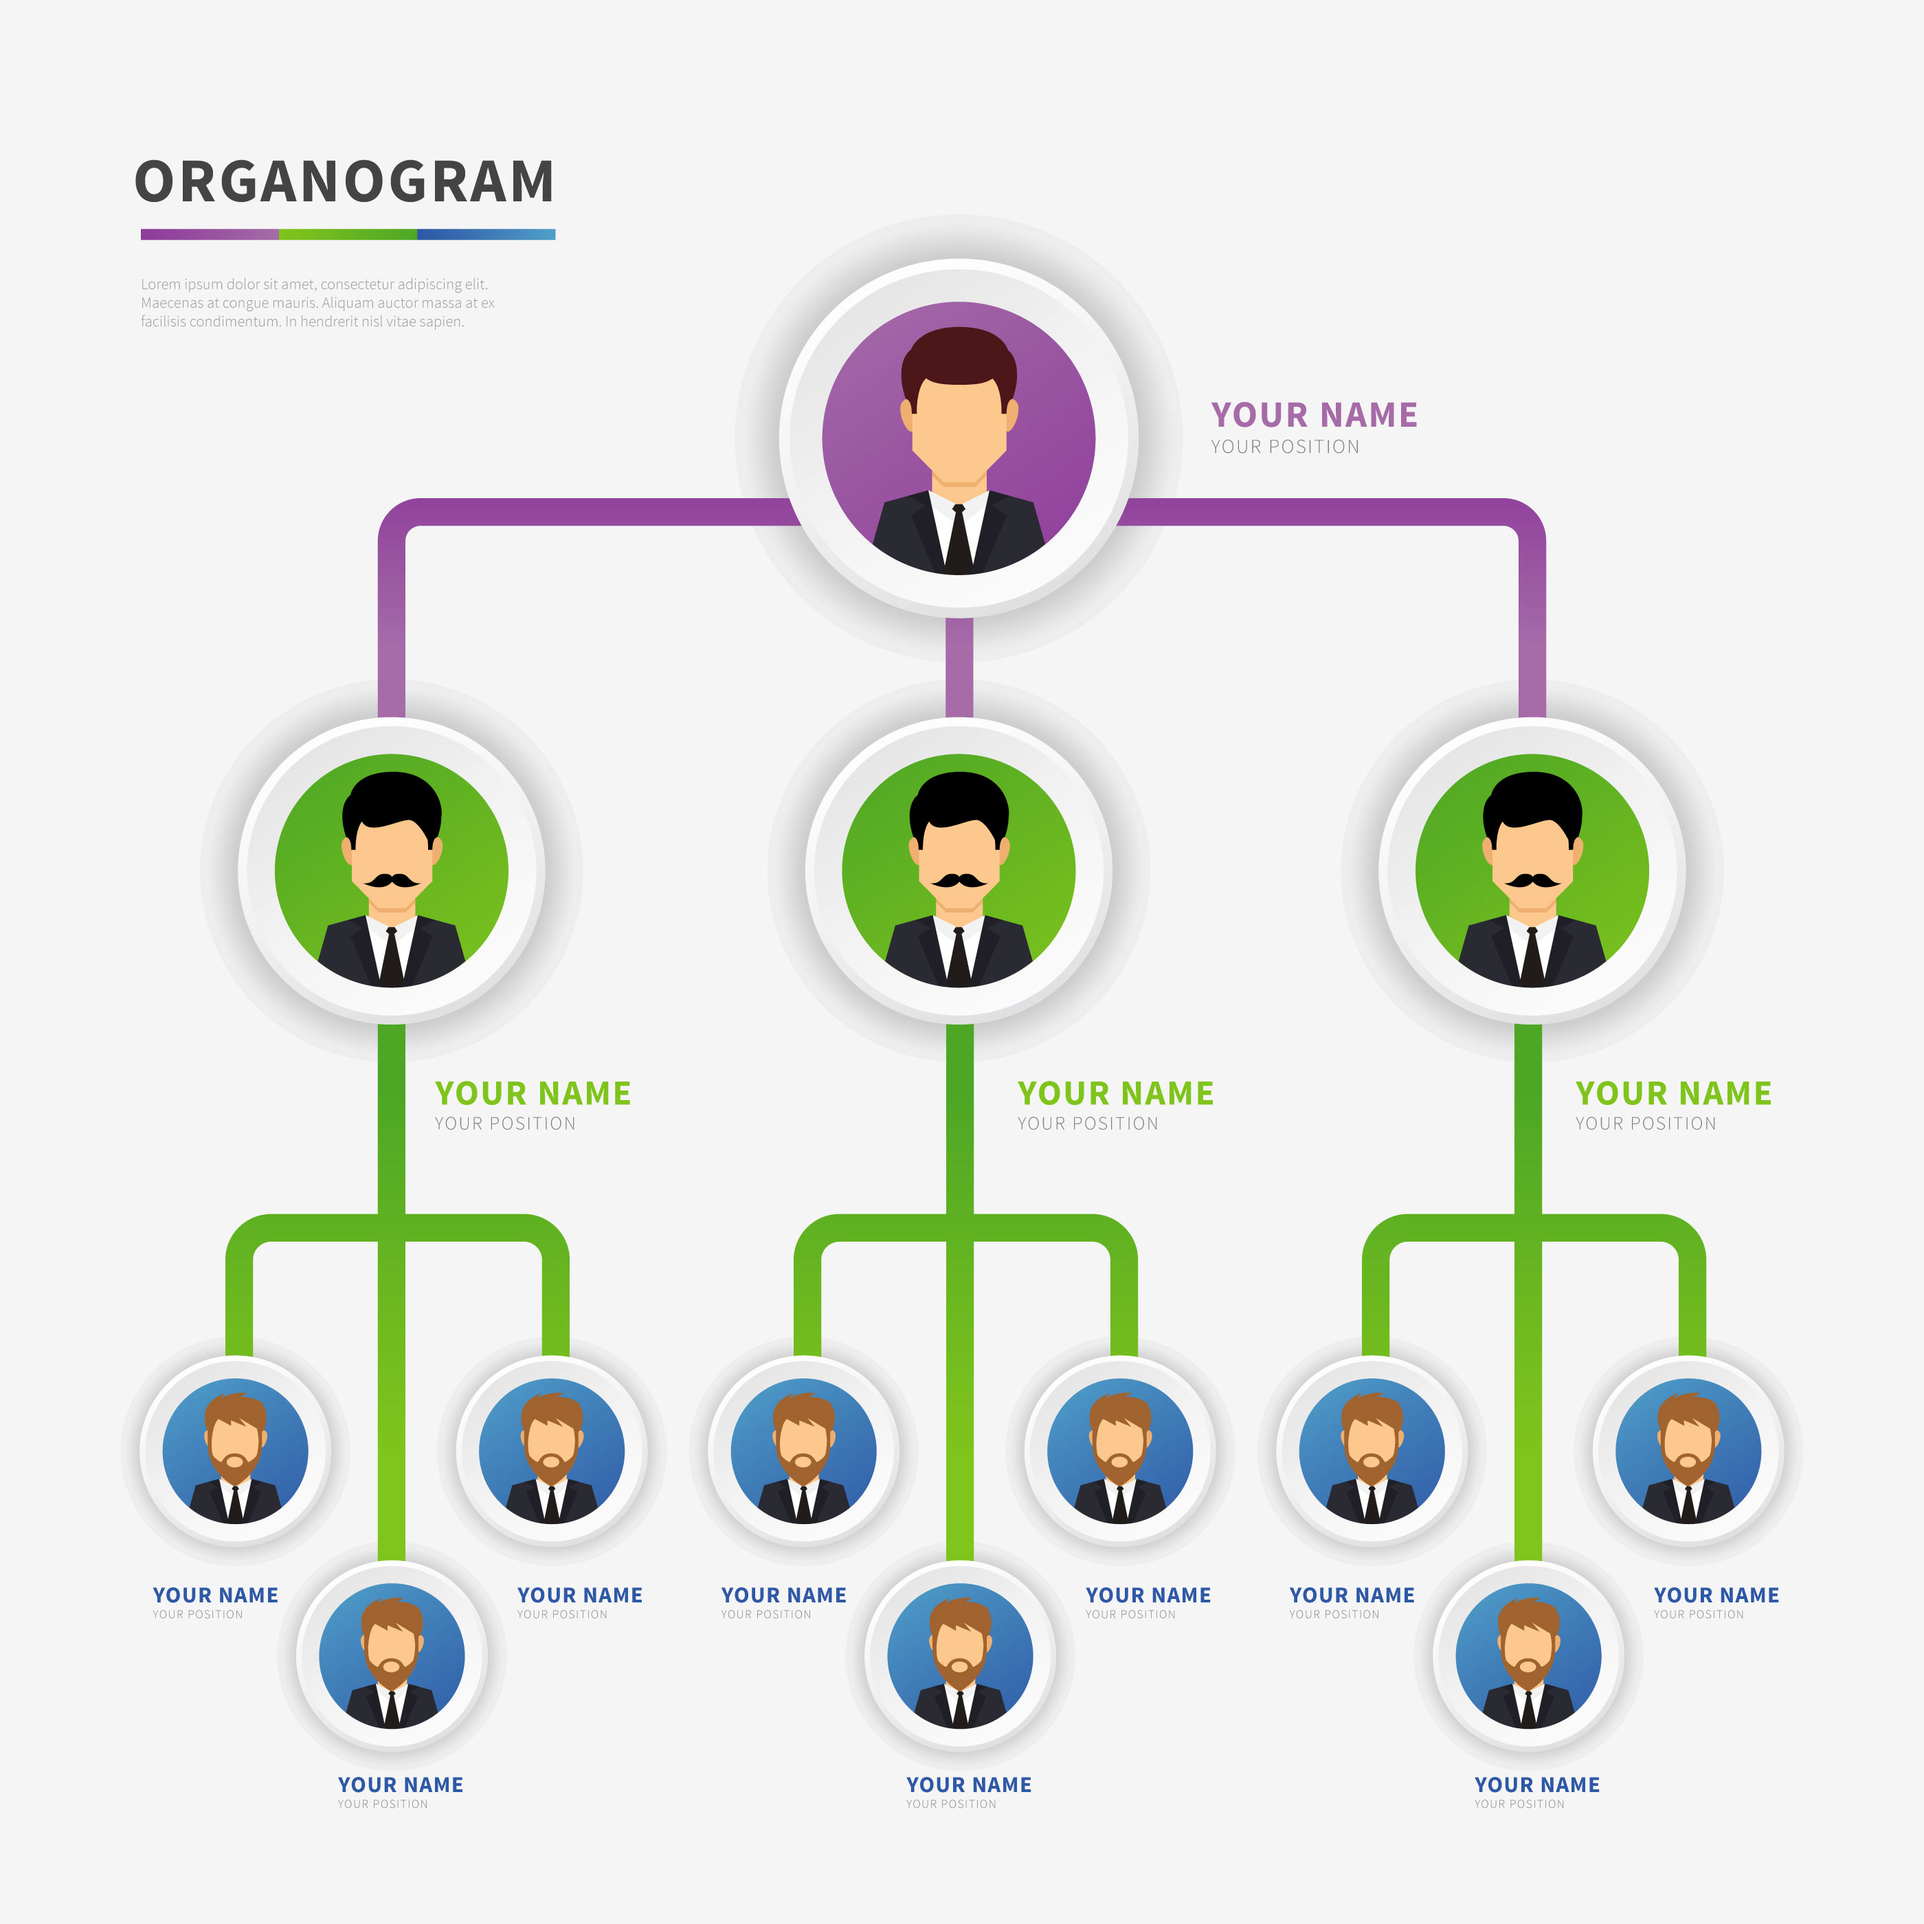
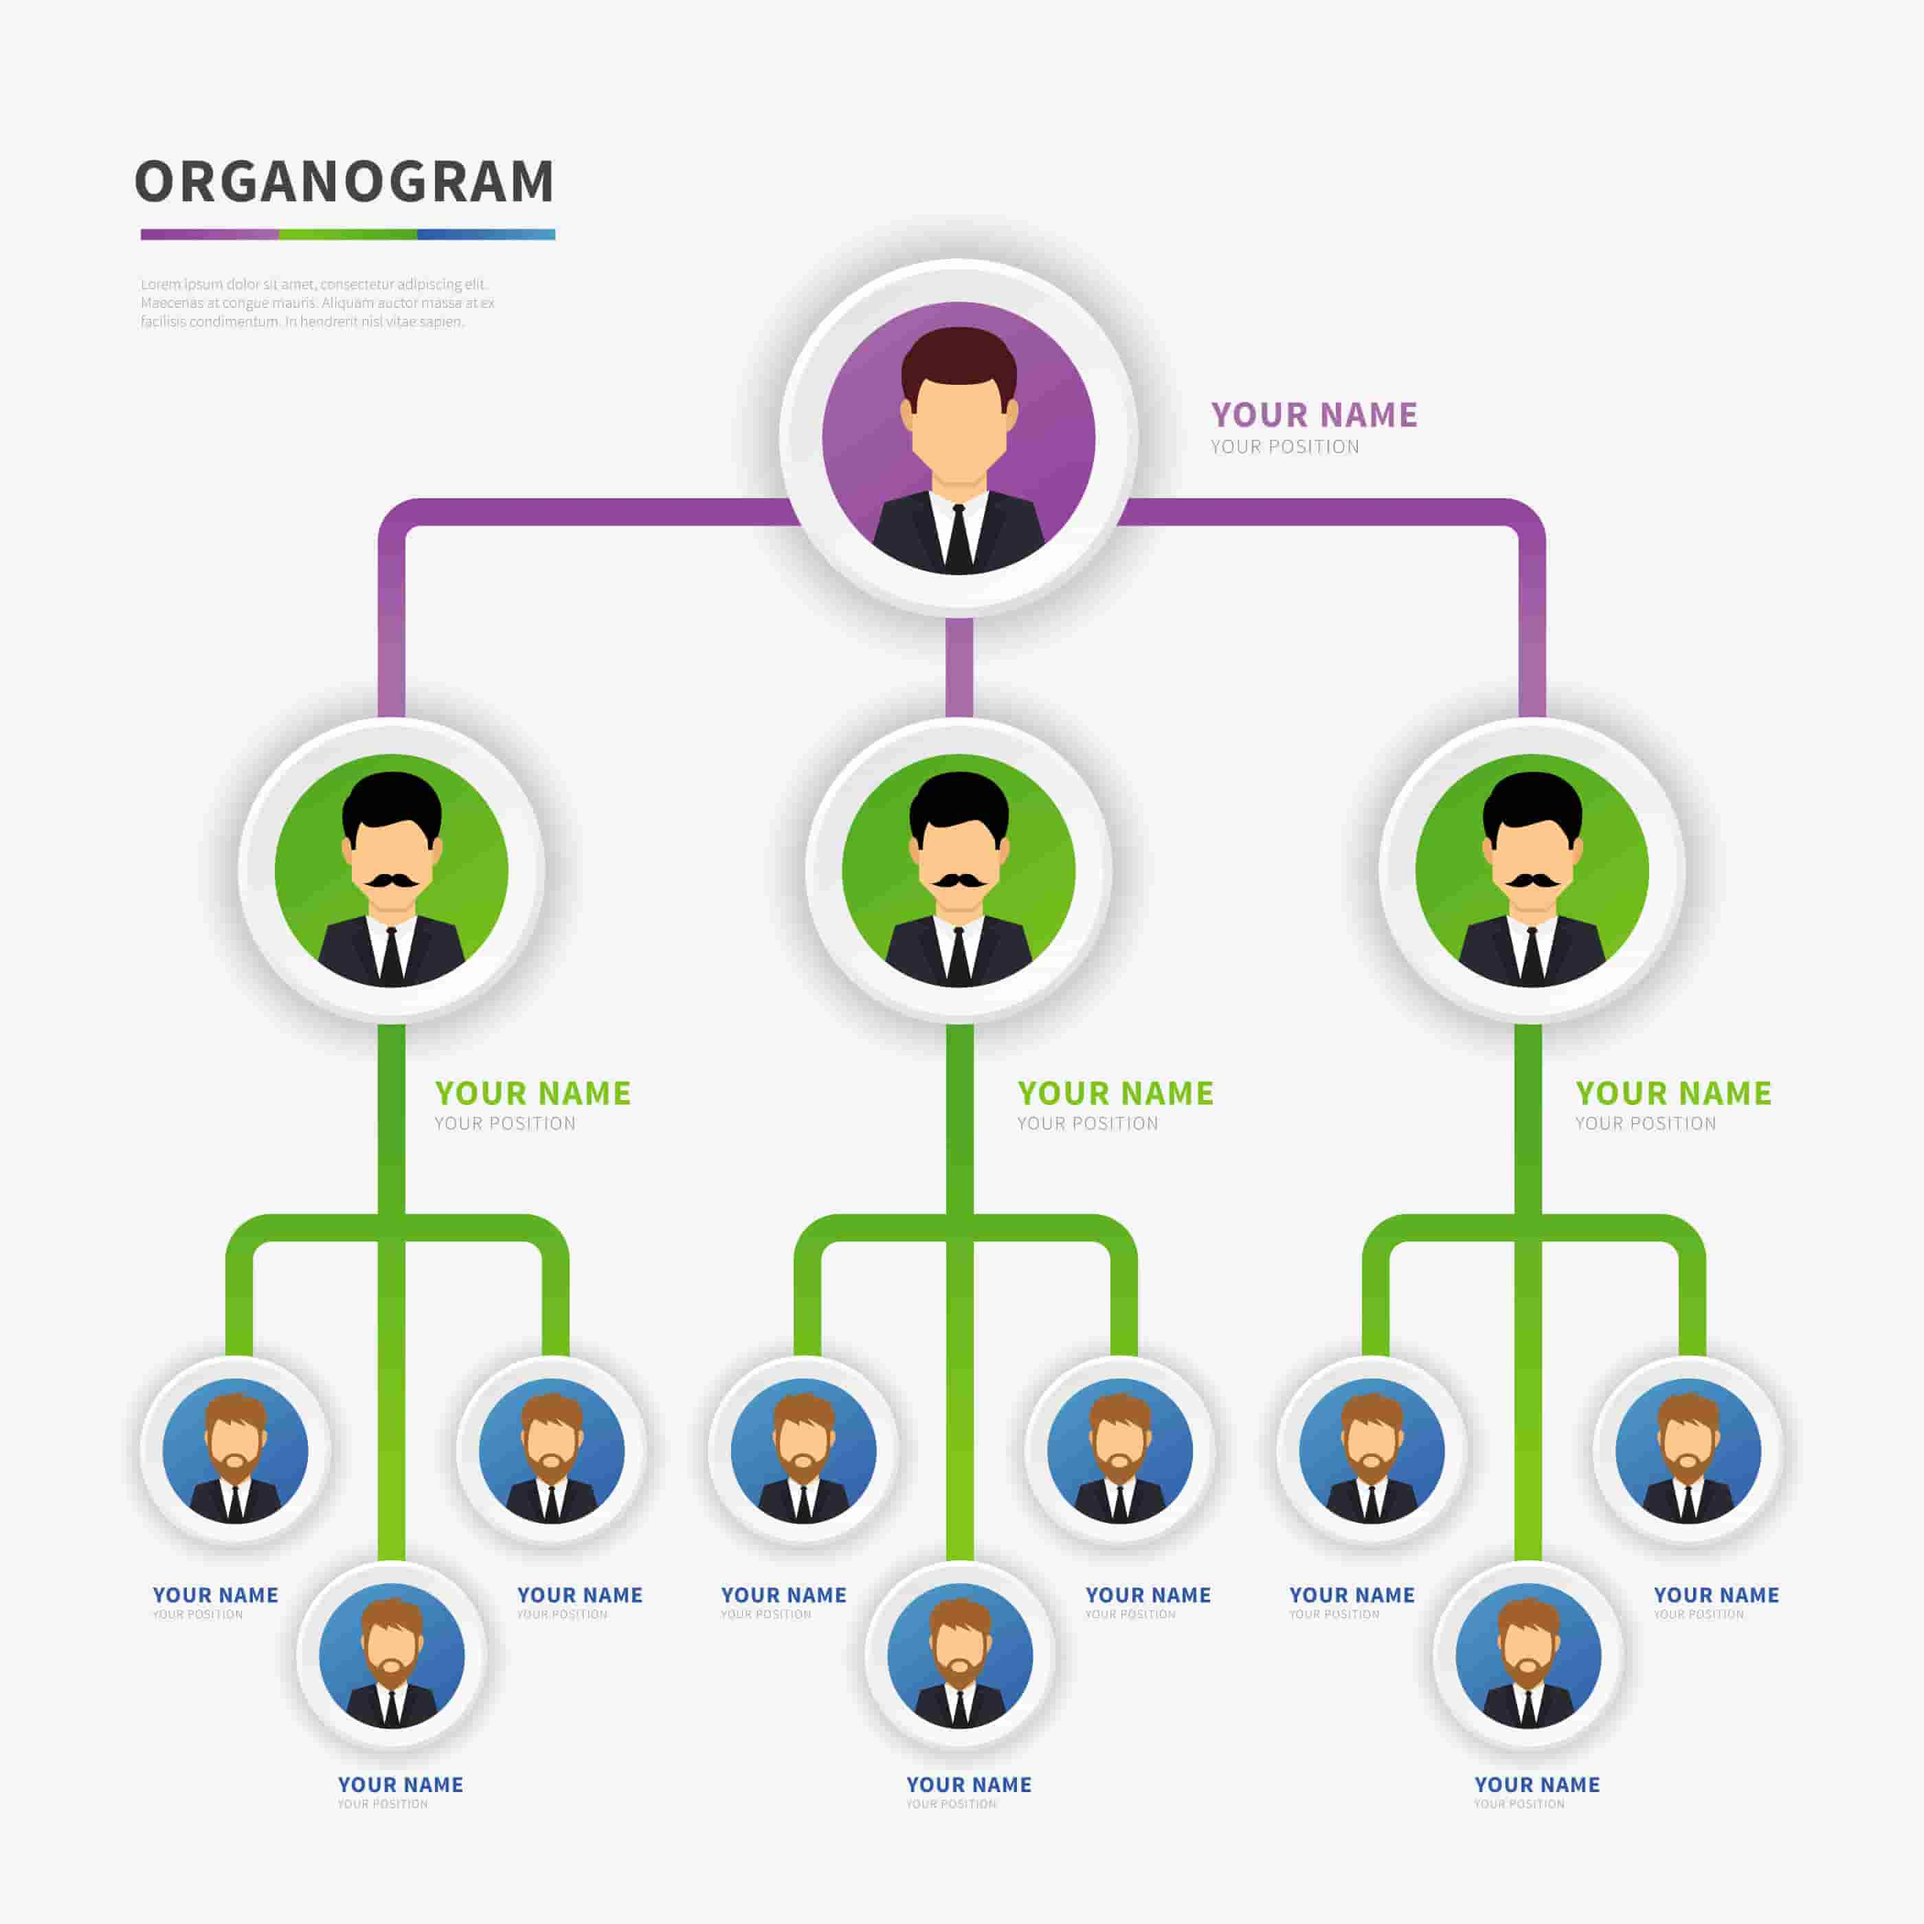
compress file size

diff --git a/pages/vote.vue b/pages/vote.vue
@@ -124,19 +124,7 @@
                                     <div class="nomor-calon">
                                         <h2>01</h2>
                                     </div>
-                                    <img src="@/public/images/1.png" alt="">
-                                    <div class="nama-calon">
-                                        <h4>Naufal Alim Wahib</h4>
-                                    </div>
-                                    <a  class="btn btn-warning btn-lg" @click="(isVoted || isNonDPT)?showModal = false:showModal = true">VOTE</a>
-                                </div>
-                            </div>
-                            <div class="col-md-6 col-lg-4">
-                                <div class="calon">
-                                    <div class="nomor-calon">
-                                        <h2>02</h2>
-                                    </div>
-                                    <img src="@/public/images/1.png" alt="">
+                                    <img src="bagas.webp" alt="">
                                     <div class="nama-calon">
                                         <h4>Bagas Setya Wicaksono</h4>
                                     </div>
@@ -146,9 +134,21 @@
                             <div class="col-md-6 col-lg-4">
                                 <div class="calon">
                                     <div class="nomor-calon">
+                                        <h2>02</h2>
+                                    </div>
+                                    <img src="alim.webp" alt="">
+                                    <div class="nama-calon">
+                                        <h4>Naufal Alim Wahib</h4>
+                                    </div>
+                                    <a  class="btn btn-warning btn-lg" @click="(isVoted || isNonDPT)?showModal = false:showModal = true">VOTE</a>
+                                </div>
+                            </div>
+                            <div class="col-md-6 col-lg-4">
+                                <div class="calon">
+                                    <div class="nomor-calon">
                                         <h2>03</h2>
                                     </div>
-                                    <img src="@/public/images/1.png" alt="">
+                                    <img src="kotak.png" alt="">
                                     <div class="nama-calon">
                                         <h4>Kotak Kosong</h4>
                                     </div>

diff --git a/pages/index.vue b/pages/index.vue
@@ -19,7 +19,7 @@
       <section class="section-timeline">
         <b-container>
           <div class="timeline-word text-center" data-aos="zoom-in" data-aos-delay="200">
-            Timeline
+           TIMELINE
           </div>
           <b-row class="justify-content-center">
             <b-col cols="12" xl="10">
@@ -133,8 +133,6 @@ export default {
 }
 
 .section-timeline {
-	color: black !important;
-
 	.timeline-info {
 		font-size: 32px;
 		line-height: 42px;
@@ -158,9 +156,10 @@ export default {
 	.timeline-word {
 		margin-top: 40px;
 		margin-bottom: 20px;
-		font-weight: 300;
-		font-size: 54px;
+		font-weight: 700;
+		font-size: 40px;
 		line-height: 83px;
+		color: #212529;
 	}
 
 	/* The actual timeline (the vertical ruler) */

diff --git a/components/CardCalon.vue b/components/CardCalon.vue
@@ -36,7 +36,7 @@ export default {
         },
         foto: {
             type: String,
-            default: "yena.jpg"
+            default: "kotak.png"
         },
         nama: {
             type: String,
@@ -55,7 +55,7 @@ export default {
             default: []
         },
         organogram: {
-            tyoe: String,
+            type: String,
             default: "organogram.jpg"
         }
     }

diff --git a/layouts/error.vue b/layouts/error.vue
@@ -31,7 +31,6 @@
 </script>
 
 <style lang="scss">
-@import url('https://fonts.googleapis.com/css2?family=Roboto:wght@500&display=swap');
 .hero-pemilu {
   .hero-logo {
       margin-top: 0px;
@@ -40,6 +39,11 @@
 .text-salah{
   font-size: 40px;
 }
+
+.btn-warning{
+  font-family: Poppins;
+}
+
 @media screen and (max-width: 500px) {
   .text-salah{
     font-size: 22px !important;
